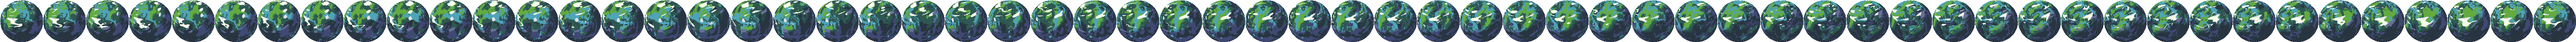
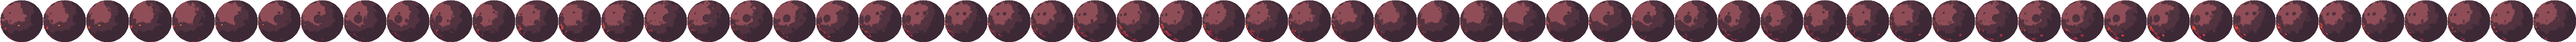
Imported Assets

diff --git a/src/me/rainma22/split/Main.java b/src/me/rainma22/split/Main.java
@@ -5,12 +5,14 @@ import javax.swing.*;
 import java.awt.*;
 import java.awt.event.KeyEvent;
 import java.awt.event.KeyListener;
+import java.awt.geom.AffineTransform;
 import java.awt.image.BufferedImage;
 import java.io.File;
 import java.io.IOException;
 import java.util.ArrayList;
 
 public class Main {
+    private static double scale=1;
     public static GameFrame gf = new GameFrame();
     public static double difficulty = 1;
     public static int score = 0;
@@ -87,8 +89,9 @@ public class Main {
 
 
     public static void main(String[] args) throws IOException {
+        backdropGenerator.init();
         Toolkit tk = Toolkit.getDefaultToolkit();
-        planet=new Planet(1);
+        planet=new Planet(0);
         spriteList = ImageIO.read(new File("sprite.png"));
         gf.addKeyListener(new KeyListener() {
             @Override
@@ -122,7 +125,7 @@ public class Main {
                                 dt.start();
                                 dft.start();
                                 try {
-                                    planet=new Planet(1);
+                                    planet=new Planet(0);
                                 } catch (IOException ioException) {
                                     ioException.printStackTrace();
                                 }
@@ -161,7 +164,9 @@ public class Main {
                         RenderingHints.KEY_TEXT_ANTIALIASING,
                         RenderingHints.VALUE_TEXT_ANTIALIAS_ON);
                 ((Graphics2D) g).setRenderingHint(RenderingHints.KEY_INTERPOLATION,RenderingHints.VALUE_INTERPOLATION_NEAREST_NEIGHBOR);
-                g.setColor(new Color(0, 0, 0, 255));
+                ((Graphics2D) g).scale(scale,scale);
+                AffineTransform transform=((Graphics2D) g).getTransform();
+                g.setColor(new Color(0, 0, 30, 255));
                 g.fillRect(0, 0, gf.getWidth(), getHeight());
                 g.setColor(Color.WHITE);
                 g.setFont(g.getFont().deriveFont((float) (tk.getScreenSize().width / 40)));
@@ -170,7 +175,8 @@ public class Main {
                 for (Displayable displayable : (ArrayList<Displayable>) getBackdrops().clone()) {
                     g.drawImage(displayable.getImage(i), displayable.getx(), displayable.gety(), gf);
                 }
-                g.drawImage(planet.getImage(i), planet.getx(), planet.gety(),gf);
+                BufferedImage planetImg=planet.getImage(i);
+                g.drawImage(planetImg, planet.getx(),  planet.gety(),(int)(planetImg.getWidth()* planet.getScale()), (int) (planetImg.getHeight()*planet.getScale()),gf);
                 for (Displayable displayable : (ArrayList<Displayable>) getBalls().clone()) {
                     g.drawImage(displayable.getImage(i), displayable.getx(), displayable.gety(), gf);
                 }
@@ -194,7 +200,6 @@ public class Main {
                 }
             }
         });
-        backdropGenerator.init();
         gf.setUndecorated(true);
         gf.setVisible(true);
         ct.start();

diff --git a/src/me/rainma22/split/computeThread.java b/src/me/rainma22/split/computeThread.java
@@ -47,11 +47,11 @@ public class computeThread extends Thread {
                     ArrayList<Displayable> obstacles = (ArrayList<Displayable>) Main.getObstacles().clone();
                     ArrayList<backdrop> backdrops= (ArrayList<backdrop>) Main.getBackdrops().clone();
                     i += Main.difficulty + Main.difficulty * Math.random() * 10;
-                    if (i >= 500) {
+                    /*if (i >= 500) {
                         obstacles.add(new Obstacle());
                         i %= 500;
                     }
-                    /*for (Displayable obstacle : obstacles) {
+                    for (Displayable obstacle : obstacles) {
                         obstacle.setx((int) (obstacle.getx() - speed + 0.5));
                         if (obstacle.getx() <= 0) remove.add(obstacle);
                         for (Displayable ball : balls) {
@@ -71,10 +71,10 @@ public class computeThread extends Thread {
                     backdrops.remove(tmp);
                     Main.setBackdrops(backdrops);
                     Planet planet=Main.getPlanet();
-                    planet.setx((int) (planet.getx()-speed/5));
-                    if (planet.getx()+planet.getImage(0).getWidth()<=0) {
+                    planet.setx((int) (planet.getx()-speed));
+                    if (planet.getx()+(planet.getImage(0).getWidth()* planet.getScale())<=0) {
                         try {
-                            planet=new Planet(1);
+                            planet=new Planet(planet.getI()+1);
                         } catch (IOException e) {
                             e.printStackTrace();
                         }

diff --git a/src/me/rainma22/split/Planet.java b/src/me/rainma22/split/Planet.java
@@ -7,25 +7,38 @@ import java.io.File;
 import java.io.IOException;
 
 public class Planet implements Displayable{
-    private int x,y;
+    private int x,y,i;
     private BufferedImage image;
+    private int width,height,scale;
     public Planet(int i) throws IOException {
-        i%=1;
+        i%=9;
         image=ImageIO.read(new File("planet" + i + ".png"));
         x=Main.gf.getWidth();
         y=Main.gf.getHeight()/2;
+        if (i==0||i==6)y=0;
+        this.i=i;
+        scale=2;
+        if (getI()==0)scale=10;
+        else if (getI()<=2) scale=1;
+        else if(getI()>=7) scale=3;
+        else if(getI()>=5)scale=5;
+        width=image.getWidth();
+        height=image.getHeight();
 
     }
     @Override
     public BufferedImage getImage(int i) {
-        i%=600;
-        BufferedImage tmp=new BufferedImage(500,500,image.getType());
+        i%=480;
+        BufferedImage tmp=new BufferedImage(height,height,image.getType());
         Graphics2D g2d=tmp.createGraphics();
-        g2d.scale(5,5);
-        g2d.setRenderingHint(RenderingHints.KEY_INTERPOLATION,RenderingHints.VALUE_INTERPOLATION_NEAREST_NEIGHBOR);
-        g2d.drawImage(image,-image.getWidth()/60*(i/10),0,6000,100,null);
+        g2d.drawImage(image,-width/60*(i/8),0,width,height,null);
         g2d.dispose();
         return tmp;
+    }
+    public int getI(){return i;}
+
+    public double getScale() {
+        return scale;
     }
 
     @Override

diff --git a/src/me/rainma22/split/backdrop.java b/src/me/rainma22/split/backdrop.java
@@ -17,7 +17,6 @@ public class backdrop implements Displayable {
         g2d.setColor(Color.WHITE);
         g2d.fillOval(0, 0, speed, speed);
         g2d.dispose();
-        System.out.println(speed);
     }
 
     @Override
